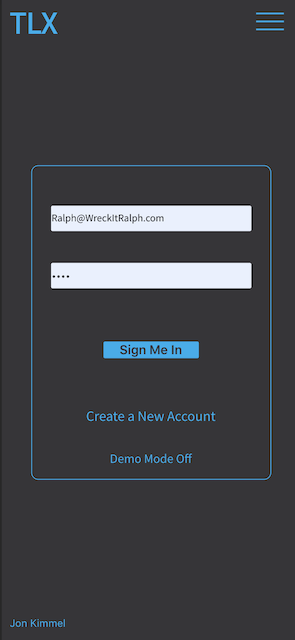
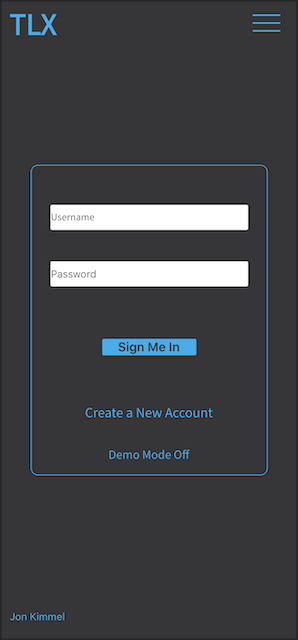
demo add

diff --git a/src/Components/SignIn/SignIn.js b/src/Components/SignIn/SignIn.js
@@ -50,88 +50,85 @@ export default class SignIn extends React.Component {
   }
 
   // Add'd to toggle the demo mode on and off and will prefill demo account information.
-  demo = (e) =>{
+  demo = (e) => {
     e.preventDefault();
-    if(this.state.demoMode === false){
-      this.setState({demoMode: true})
-      this.setState({email:'Bob@BobTheBuilder.com', password:'testtest'})
-    }else{
-      this.setState({demoMode: false})
-      this.setState({email:'', password:''})
+    if (this.state.demoMode === false) {
+      this.setState({ demoMode: true });
+      this.setState({ email: "Bob@BobTheBuilder.com", password: "testtest" });
+    } else {
+      this.setState({ demoMode: false });
+      this.setState({ email: "", password: "" });
     }
-  }
+  };
 
   render() {
     return (
       <main className="signInPage">
         <div className="signContainer">
-
           {this.state.demoMode === false ? (
-              <form className="signInForm" onSubmit={(e) => this.submit(e)}>
-                <input
-                    id="usernameInput"
-                    type="text"
-                    name="email"
-                    placeholder="Username"
-                    maxLength="35"
-                    onChange={(e) => this.change(e)}
-                    value={this.state.email}
-                    required
-                />
+            <form className="signInForm" onSubmit={(e) => this.submit(e)}>
+              <input
+                id="usernameInput"
+                type="text"
+                name="email"
+                placeholder="Username"
+                maxLength="35"
+                onChange={(e) => this.change(e)}
+                value={this.state.email}
+                required
+              />
 
-                <input
-                    id="passwordInput"
-                    type="password"
-                    name="password"
-                    placeholder="Password"
-                    maxLength="25"
-                    onChange={(e) => this.change(e)}
-                    value={this.state.password}
-                    required
-                />
+              <input
+                id="passwordInput"
+                type="password"
+                name="password"
+                placeholder="Password"
+                maxLength="25"
+                onChange={(e) => this.change(e)}
+                value={this.state.password}
+                required
+              />
 
-                {/* Should a username a password be wrong this will render and advise the user of the error */}
-                <p>{this.state.message}</p>
+              {/* Should a username a password be wrong this will render and advise the user of the error */}
+              <p>{this.state.message}</p>
 
-                <div className="buttonContainer">
-                  <button type="submit" id="signInButton">
-                    Sign Me In
-                  </button>
-                </div>
-              </form>
+              <div className="buttonContainer">
+                <button type="submit" id="signInButton">
+                  Sign Me In
+                </button>
+              </div>
+            </form>
+          ) : (
+            <form className="signInForm" onSubmit={(e) => this.submit(e)}>
+              <input
+                id="usernameInput"
+                type="text"
+                name="email"
+                placeholder={this.state.demoUser}
+                maxLength="35"
+                value={this.state.demoUser}
+                required
+              />
 
-          ):(
-              <form className="signInForm" onSubmit={(e) => this.submit(e)}>
-                <input
-                    id="usernameInput"
-                    type="text"
-                    name="email"
-                    placeholder={this.state.demoUser}
-                    maxLength="35"
-                    value={this.state.demoUser}
-                    required
-                />
+              <input
+                id="passwordInput"
+                type="password"
+                name="password"
+                placeholder={this.state.demoPassword}
+                maxLength="25"
+                value={this.state.demoPassword}
+                required
+              />
 
-                <input
-                    id="passwordInput"
-                    type="password"
-                    name="password"
-                    placeholder={this.state.demoPassword}
-                    maxLength="25"
-                    value={this.state.demoPassword}
-                    required
-                />
+              {/* Should a username a password be wrong this will render and advise the user of the error */}
+              <p>{this.state.message}</p>
 
-                {/* Should a username a password be wrong this will render and advise the user of the error */}
-                <p>{this.state.message}</p>
-
-                <div className="buttonContainer">
-                  <button type="submit" id="signInButton">
-                    Sign Me In
-                  </button>
-                </div>
-              </form>
-
+              <div className="buttonContainer">
+                <button type="submit" id="signInButton">
+                  Sign Me In
+                </button>
+              </div>
+            </form>
           )}
 
           <p id="signInNewUser">
@@ -140,9 +137,8 @@ export default class SignIn extends React.Component {
 
           {/* Demo Mode will toggle and let user know if they are in demo mode or not. */}
           <p id="demoToggle" onClick={(e) => this.demo(e)}>
-            {this.state.demoMode === false ? ('Demo Mode Off') : ('Demo Mode On')}
+            {this.state.demoMode === false ? "Demo Mode Off" : "Demo Mode On"}
           </p>
-
         </div>
       </main>
     );

diff --git a/src/Components/Account/Account.js b/src/Components/Account/Account.js
@@ -62,14 +62,16 @@ export default class Account extends React.Component {
   */
   checkDemo = (e) => {
     e.preventDefault();
-    if(`${UserService.getUserId()}` === '2'){
-      alert("Sorry, for demonstration purposes you are unable to update user information on" +
-          " this account. For non-demonstration accounts user information will be updated.")
-    }else{
+    if (`${UserService.getUserId()}` === "2") {
+      alert(
+        "Sorry, for demonstration purposes you are unable to update user information on" +
+          " this account. For non-demonstration accounts user information will be updated."
+      );
+    } else {
       // continues to update the user information
-      this.handleSubmit(e)
+      this.handleSubmit(e);
     }
-  }
+  };
 
   // handles submit for contact info update
   handleSubmit = (e) => {

diff --git a/src/Components/MainPage/MainPage.js b/src/Components/MainPage/MainPage.js
@@ -34,7 +34,10 @@ export default class MainPage extends React.Component {
             </div>
           </Link>
         </div>
-        <h2 id="callToAction"> <Link to="/Sign-in">Get started now!</Link></h2>
+        <h2 id="callToAction">
+          {" "}
+          <Link to="/Sign-in">Get started now!</Link>
+        </h2>
       </main>
     );
   }

diff --git a/src/Components/SignIn/SignIn.css b/src/Components/SignIn/SignIn.css
@@ -57,7 +57,7 @@ input[type="text"] {
   background-color: #00adedb8;
 }
 
-#signInNewUser a{
+#signInNewUser a {
   text-decoration: none;
   font-size: 18px;
   color: #00aded;
@@ -67,7 +67,7 @@ input[type="text"] {
   color: #00adedb8;
 }
 
-#demoToggle:hover{
+#demoToggle:hover {
   color: #00adedb8;
   cursor: pointer;
 }

diff --git a/src/Components/MainPage/MainPage.css b/src/Components/MainPage/MainPage.css
@@ -56,7 +56,7 @@ link {
   color: #00adedb8;
 }
 
-#callToAction a{
+#callToAction a {
   color: #00aded;
 }
 
@@ -65,7 +65,7 @@ link {
   margin-top: 50px;
 }
 
-#callToAction a:hover{
+#callToAction a:hover {
   color: #00adedb8;
 }
 
